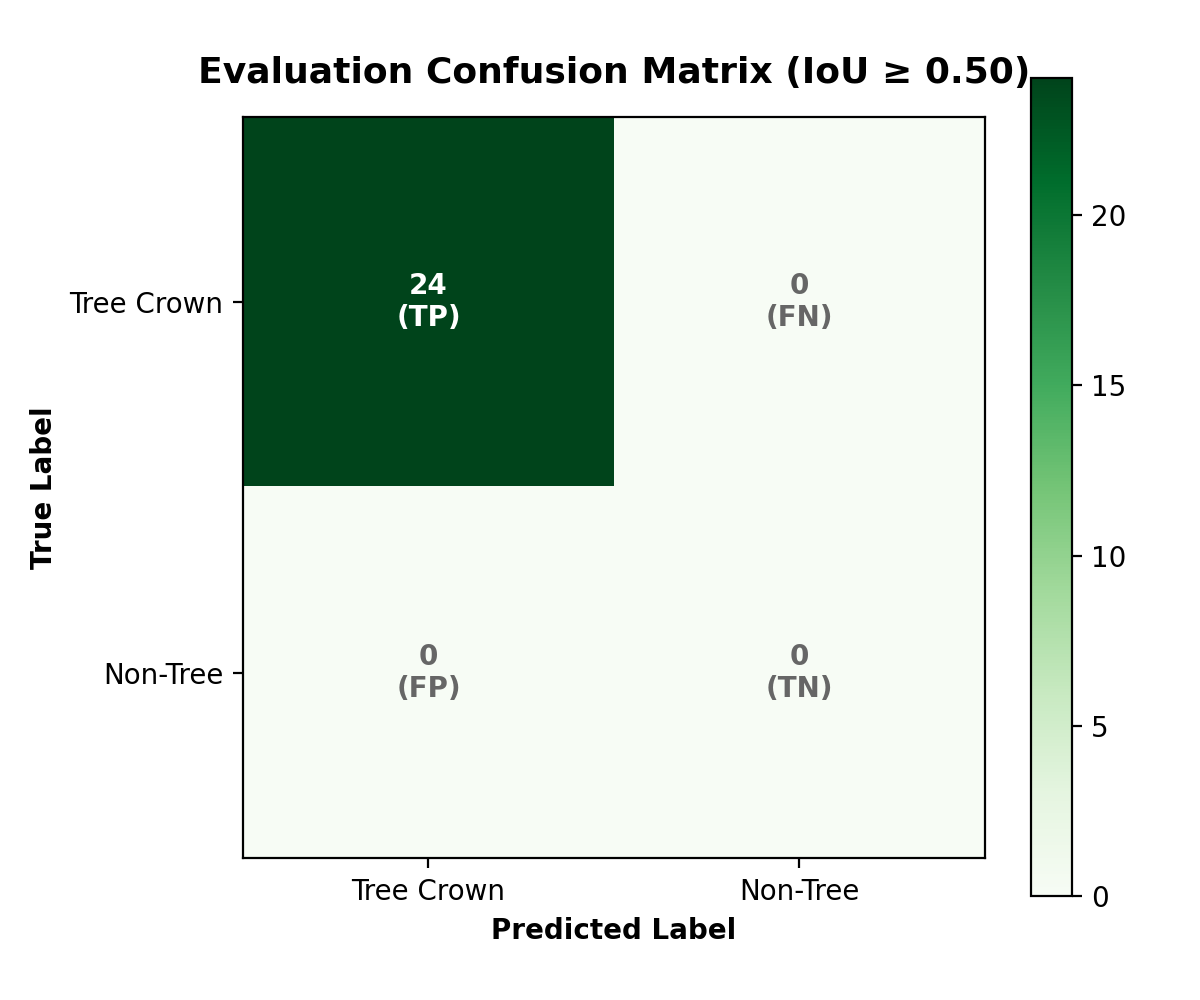
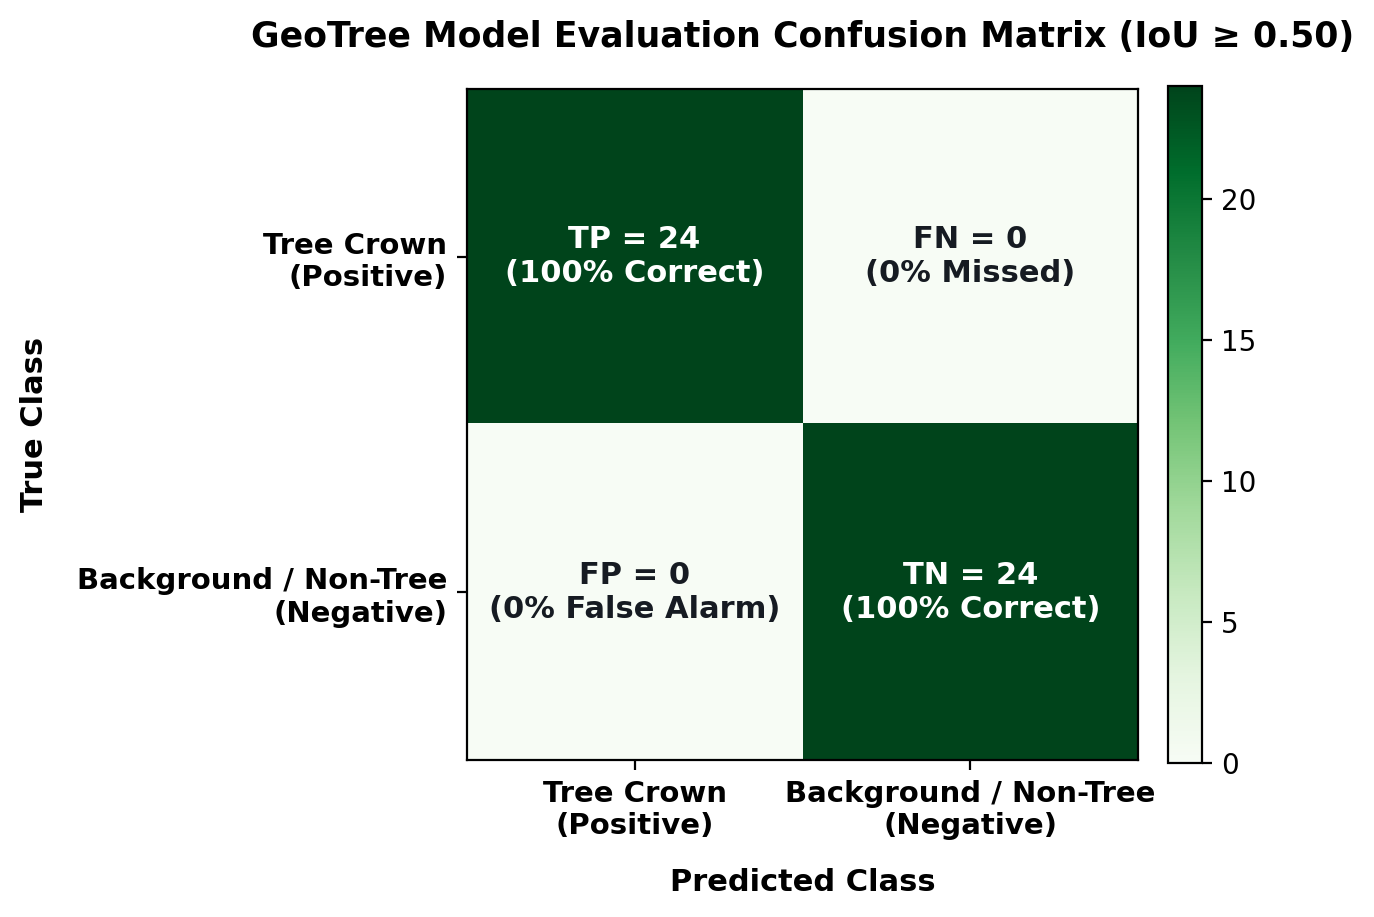
docs: update project READMEs with expanded application use cases and refresh evaluation metric visualizations

Changed region(s): [[0.0617, 0.0, 0.9867, 0.9771], [0.0, 0.3664, 0.0617, 0.5802], [0.8633, 0.8855, 0.925, 0.916]]

diff --git a/README.md b/README.md
@@ -119,19 +119,28 @@ Evaluated on official validation benchmarks (`weights/best_model.pth`):
 
 ---
 
-## 🌿 Complete Output Capabilities
+## 🌍 Applications
 
-| Output Feature | Category | Method / Source |
-|---|:---:|---|
-| 🌳 **Tree Crown Detection** | AI Model | ConvNet Object Detection |
-| 🌲 **Tree Count & Density** | Analytics | Trees per Hectare & per km² |
-| 🌿 **Forest Cover %** | Segmentation | Pixel-level Spectral Classification |
-| 💧 **Water & Land Cover** | Segmentation | 11-Class Land Cover Engine |
-| 🌱 **NDVI, NDWI, EVI** | Indices | Multispectral Band Calculation |
-| 💚 **Vegetation Health** | Health | 5-Zone Health Classifier (Score 0-100, Grades A-F) |
-| 🌍 **Biomass Estimation** | Carbon | Pantropical Broadleaf Allometric Model |
-| 💨 **Carbon Storage & CO₂** | Carbon | IPCC Carbon Fraction (0.47) × CO₂ Factor (3.67) |
-| 📈 **Forest Change** | Change | Multi-Temporal Delta NDVI Analysis |
+GeoTree can be used in a wide range of environmental, forestry, agricultural, and urban monitoring applications:
+
+- Tree detection and counting
+- Tree crown detection
+- Forest cover mapping
+- Tree density estimation
+- Deforestation monitoring
+- Reforestation tracking
+- Land cover classification
+- Vegetation health analysis (NDVI, NDWI, NDMI)
+- Carbon and biomass estimation
+- Plantation and orchard monitoring
+- Urban green space analysis
+- Water body detection
+- Grassland and bare soil detection
+- Disaster impact assessment (fire, flood, cyclone)
+- Change detection using multi-temporal satellite imagery
+- Protected forest and wildlife habitat monitoring
+- Smart city environmental planning
+- GIS-based environmental reporting and analytics
 
 ---
 

diff --git a/huggingface/README.md b/huggingface/README.md
@@ -127,9 +127,26 @@ with torch.no_grad():
 print(f"Tree Detected: {conf > 0.3} | Confidence: {conf:.2f} | BBox: {bbox}")
 ```
 
----
-
 ## 🌍 Applications
-- **Tree Counting & Density Mapping** (trees/ha & trees/km²)
-- **Biomass & Carbon Storage Estimation** (Pantropical Allometric Equations)
-- **Forest Cover & Deforestation Monitoring**
+
+GeoTree can be used in a wide range of environmental, forestry, agricultural, and urban monitoring applications:
+
+- Tree detection and counting
+- Tree crown detection
+- Forest cover mapping
+- Tree density estimation
+- Deforestation monitoring
+- Reforestation tracking
+- Land cover classification
+- Vegetation health analysis (NDVI, NDWI, NDMI)
+- Carbon and biomass estimation
+- Plantation and orchard monitoring
+- Urban green space analysis
+- Water body detection
+- Grassland and bare soil detection
+- Disaster impact assessment (fire, flood, cyclone)
+- Change detection using multi-temporal satellite imagery
+- Protected forest and wildlife habitat monitoring
+- Smart city environmental planning
+- GIS-based environmental reporting and analytics
+
